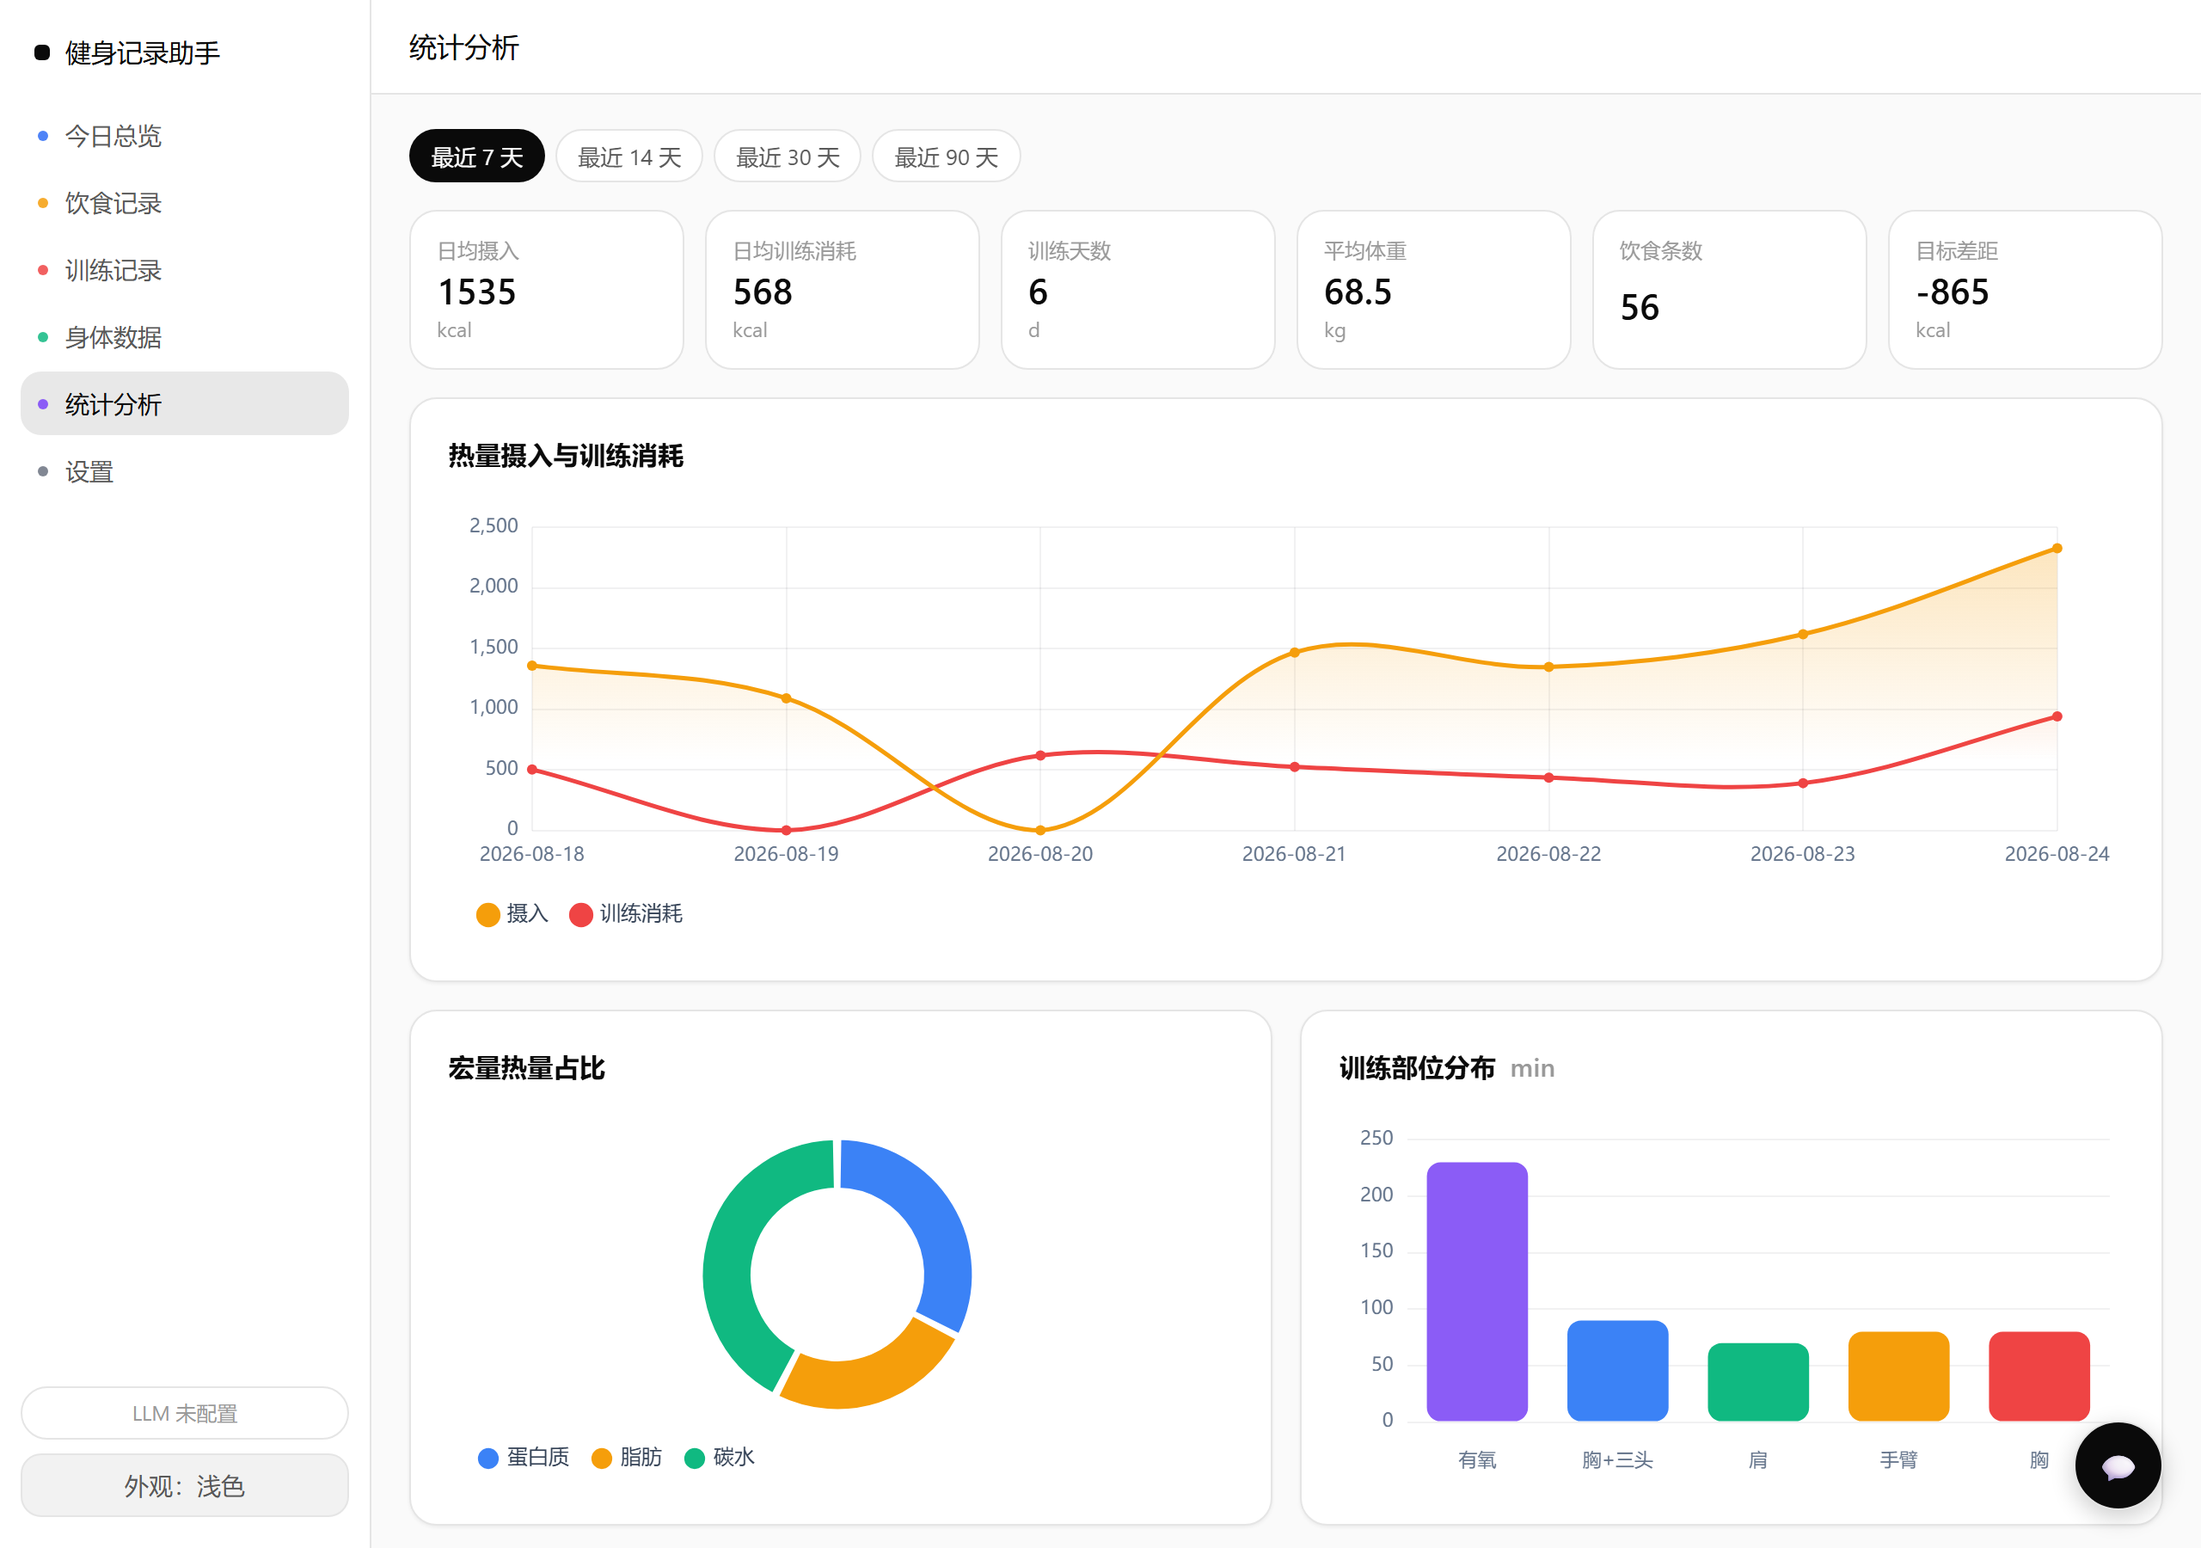
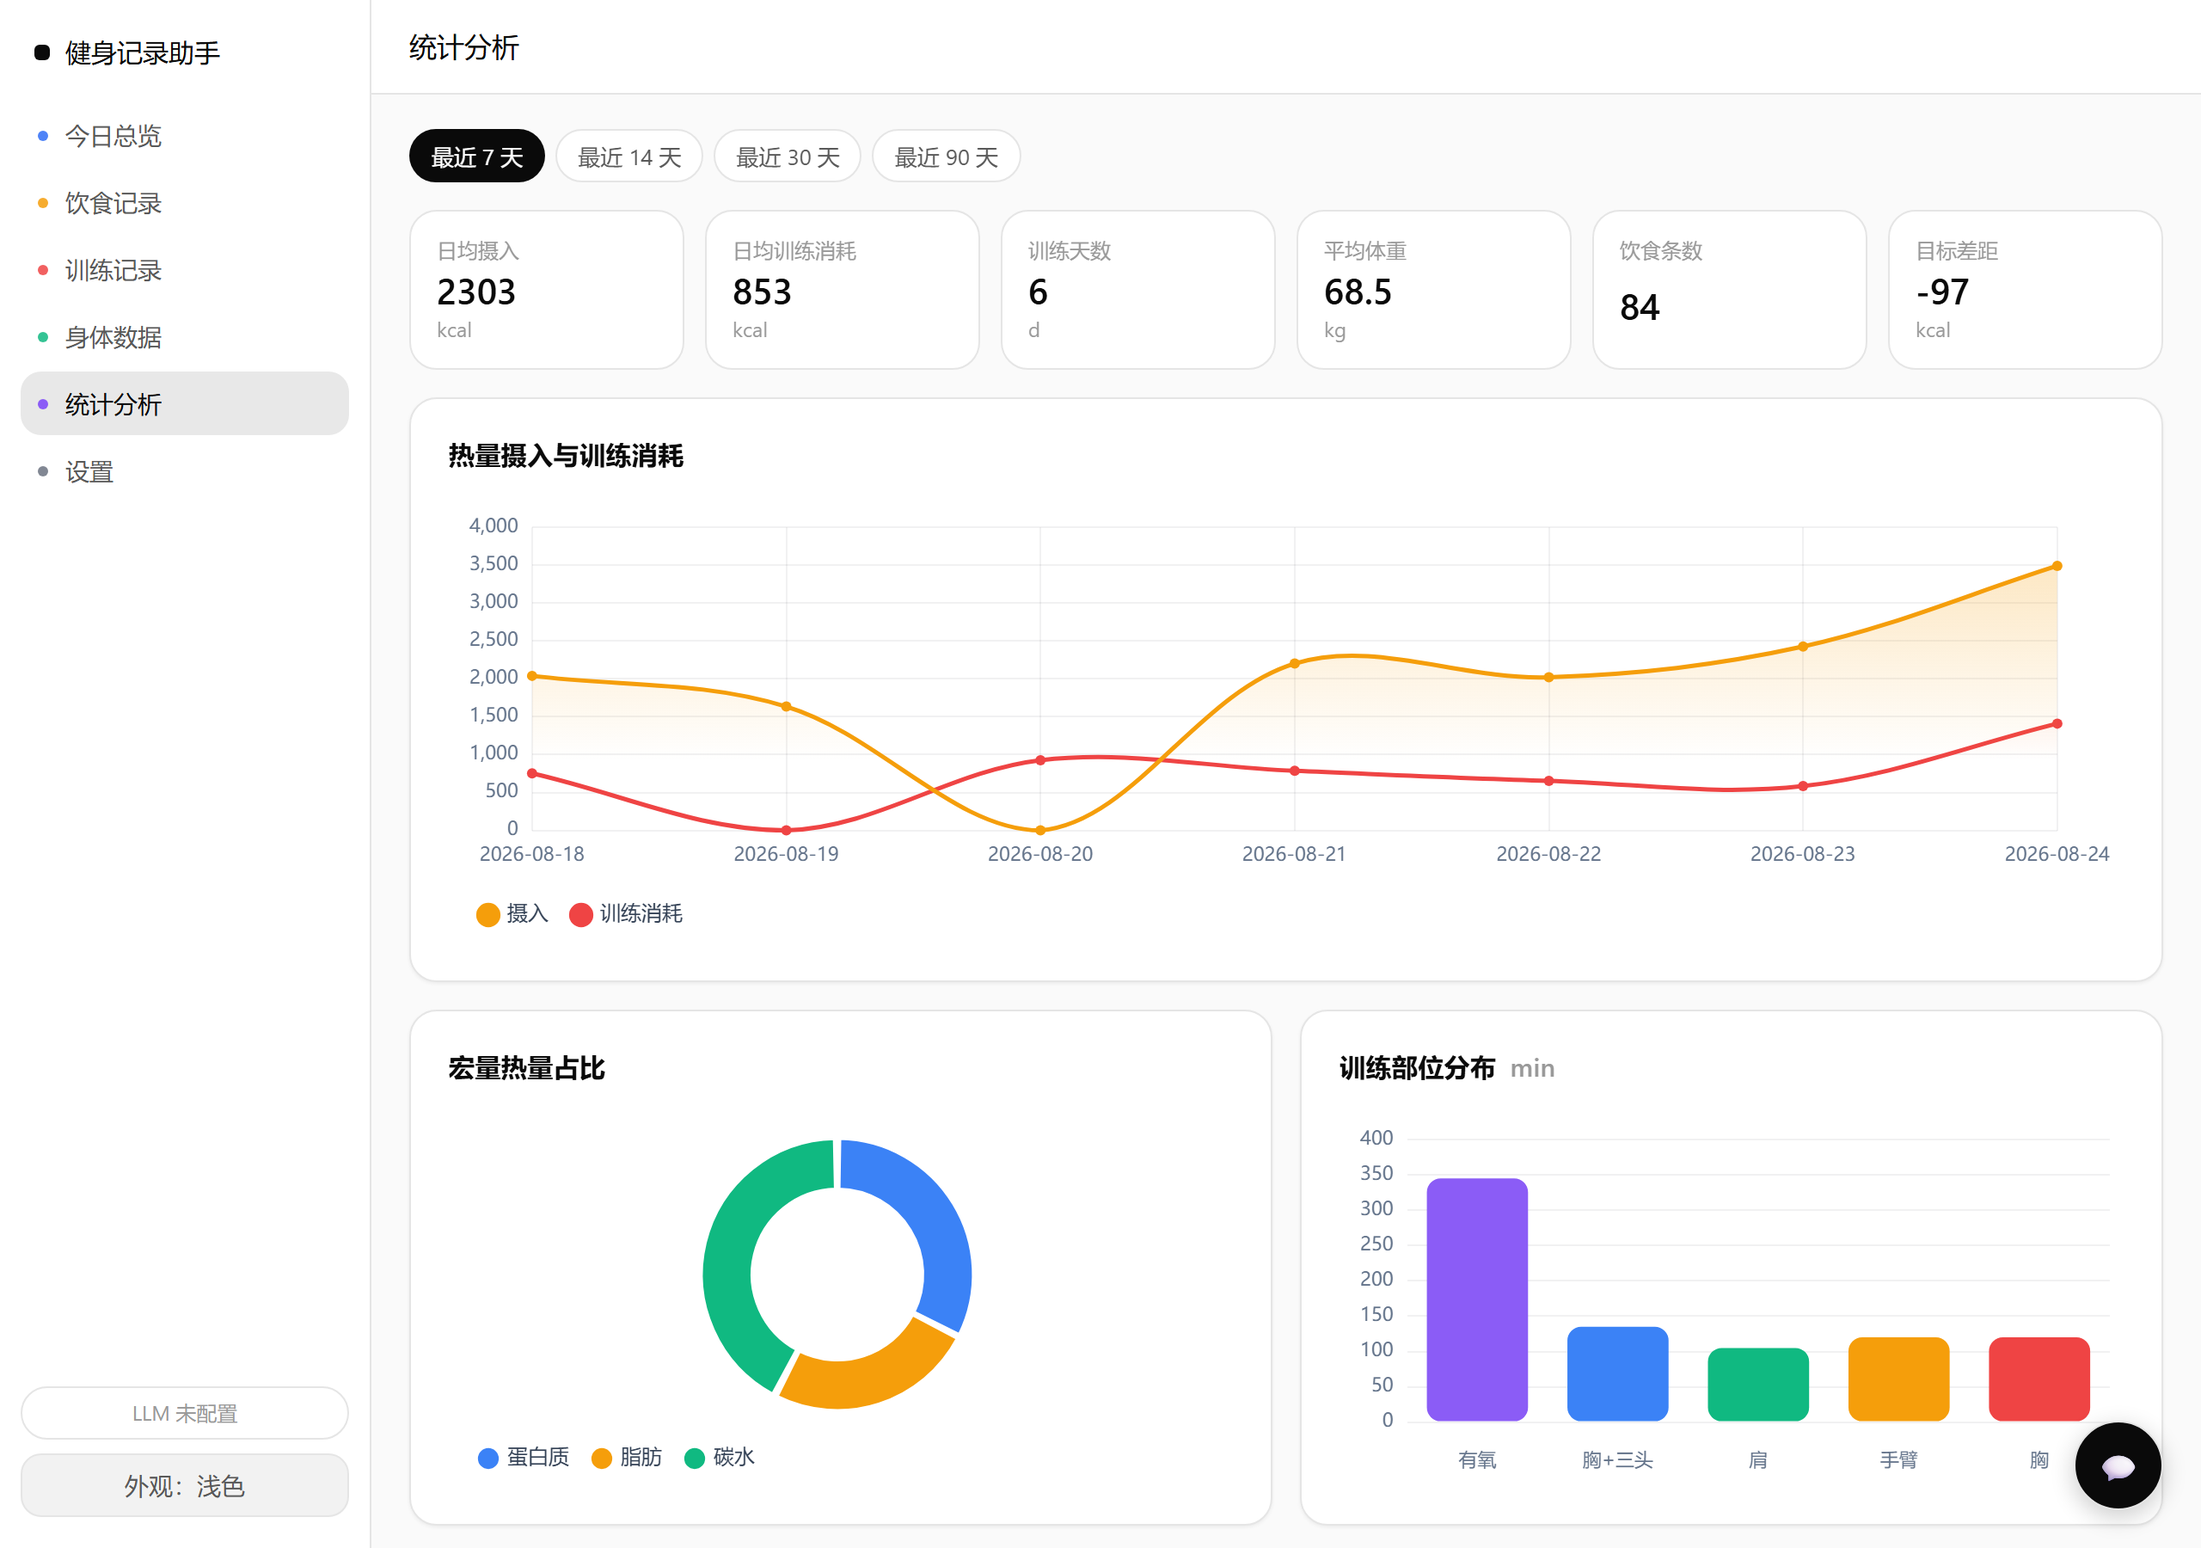
拆分中英文 README；截图改为单独贴图并把 stats 改用视口截图
- 拆成两个 README：README.md（中文）+ README.en.md（英文），顶部互相跳转
- 预览区不再用 2×2 表格合并（之前桌面端被压到看不清）：
  * 桌面截图全宽单独一段
  * 手机截图用 <p align=center><img width=320> 居中显示
- desktop-stats 改成视口截图（去掉 full_page），避免长全页让 README 滚很久
  视觉上 KPIs + 趋势折线 + 宏量环 + 部位柱状都还在，比之前更紧凑

diff --git a/README.md b/README.md
@@ -1,24 +1,30 @@
 # Simple Fitness Recorder · 健身记录助手
 
 > 本地优先的健身记录助手（中文界面）。记录饮食 / 训练 / 身体数据，自动推算每日热量目标与缺口，并提供可视化统计。支持**网页端**与 **Android App** 两种形态，数据全部存在你自己的设备上，不上传任何服务器。
+>
+> [English version →](README.en.md)
 
-[简体中文](#简体中文) · [English](#english)
+## 界面预览
 
----
+桌面端在浏览器里跑 FastAPI + Vue 3，手机端是 Capacitor 打包的 Android App（数据存本机）。下面四张图是真实运行截屏。
 
-## 简体中文
+#### 桌面端 · 今日总览
 
-### 界面预览
+![网页端今日总览](assets/screenshots/desktop-today.png)
 
-| 网页端 · 今日总览 | 手机端 · 今日总览 |
-| --- | --- |
-| ![网页端今日总览](assets/screenshots/desktop-today.png) | ![手机端今日总览](assets/screenshots/mobile-today.png) |
+#### 手机端 · 今日总览
 
-| 网页端 · 统计分析 | 手机端 · 统计分析 |
-| --- | --- |
-| ![网页端统计分析](assets/screenshots/desktop-stats.png) | ![手机端统计分析](assets/screenshots/mobile-stats.png) |
+<p align="center"><img src="assets/screenshots/mobile-today.png" width="320" alt="手机端今日总览"></p>
 
-### 功能特性
+#### 桌面端 · 统计分析
+
+![网页端统计分析](assets/screenshots/desktop-stats.png)
+
+#### 手机端 · 统计分析
+
+<p align="center"><img src="assets/screenshots/mobile-stats.png" width="320" alt="手机端统计分析"></p>
+
+## 功能特性
 
 - **三类记录**：饮食（餐次 / 食物 / 分量 / 热量 / 三大宏量）、训练（部位 / 时长 / 消耗 / 备注）、身体（体重 / 体脂 / 腰围），列表内支持行内编辑与软删除（删错可从回收站恢复）。
 - **目标与缺口联动**：按 BMR（Mifflin-St Jeor）→ TDEE（活动系数）→ 每日目标（目标系数）推算热量目标；当天训练消耗会实时抬高有效目标，热量环与缺口口径自洽。
@@ -28,7 +34,7 @@
 - **黑白极简 UI**：浅 / 深主题切换；网页端为侧栏布局，手机端为底部导航；右下角悬浮助手不遮挡背后交互。
 - **跨端一致**：网页端与手机端共用同一套记录模型，导出 JSON 在两端均可导入，按「记录类型 + 原 id」去重，重复导入不会越导越多。
 
-### 两种使用形态
+## 两种使用形态
 
 | | 网页端（桌面） | 手机端（Android） |
 | --- | --- | --- |
@@ -38,9 +44,9 @@
 | AI 配置 | 服务端 `.env` | App 内「设置」页填写，key 仅存本机 |
 | 关系 | 两者并存、互不替代，靠 JSON 导出 / 导入互相同步 | 同上 |
 
-### 快速开始
+## 快速开始
 
-#### 网页端
+### 网页端
 
 ```bash
 # 1. 建议用虚拟环境，避免污染系统 Python
@@ -65,7 +71,7 @@ python run.py
 
 > 直接双击 `run.py` 常因系统 Python 没装依赖而报错，请在已装依赖的虚拟环境（或已装依赖的 Python）里用终端启动。
 
-#### 手机端（Android）
+### 手机端（Android）
 
 下载仓库 `apk/` 目录下的安装包安装即可：
 
@@ -74,64 +80,28 @@ python run.py
 
 首次安装需允许「安装未知来源应用」。数据全部存手机本地，可离线使用；在「设置」页填写 OpenAI 兼容接口的 API Key 即可启用 AI 助手（key 只存本机）。
 
-### 数据备份与迁移
+## 数据备份与迁移
 
 设置页（网页端 / 手机端）提供「导出全部 JSON」，包含档案、目标与全部记录（含回收站）。把文件发给他人，对方导入后即可用同一套数据；重复导入按 id 自动去重（并集合并），不会重复累加。
 
-### 技术栈
+## 技术栈
 
 - **后端**：FastAPI + SQLite + LangGraph（OpenAI 兼容接口，默认 DeepSeek-V3）
 - **前端**：Vue 3 + Chart.js（本地内置，离线可用，CDN 兜底）
 - **架构**：API-first —— 网页只是客户端之一；手机 App 是纯前端壳（数据存本机），与网页端通过 JSON 导出 / 导入同步
 
-### 从源码构建（可选）
+## 从源码构建（可选）
 
 - 网页端：如上 `pip install -r requirements.txt && python run.py`。
 - 手机端：`pwa/` 为纯前端 web 资源（Vue 3 + IndexedDB，零构建），`mobile/` 为 Capacitor 6 工程，把 `pwa/` 打包成原生 Android WebView 壳。改完 `pwa/` 后，在 `mobile/` 内 `cap sync` 同步资源再打包；release 需自备签名密钥库（不入库）。Windows 上中文路径 / 沙箱环境有已知坑，可参考项目内的 `capacitor-apk-build` 构建说明。
 
-### 路线图
+## 路线图
 
 - [ ] 多档案 / 多用户
 - [ ] 训练动作库与计划模板
 - [ ] 体重 / 体脂趋势预测
 - [ ] 网页端深色主题记忆优化
 
-### 许可证
+## 许可证
 
 本项目当前未指定开源许可证。如需用于商业或分发，请先联系作者。
-
----
-
-## English
-
-**Simple Fitness Recorder** is a local-first fitness tracker (Chinese UI). It logs diet / workout / body measurements, auto-computes your daily calorie target and deficit, and visualizes the trends. It ships in two forms — a **web app** and an **Android app** — and keeps all your data on your own device, with no server upload.
-
-### Highlights
-
-- Three record types: diet (meal / food / portion / calories / macros), workout (muscle group / duration / burn / note), and body (weight / body-fat / waist), with inline edit and soft-delete (recoverable from trash).
-- Goal & deficit chain: BMR (Mifflin-St Jeor) → TDEE (activity factor) → daily target (goal factor); today's workout burn raises the effective target live.
-- Visual stats: calorie ring, macro progress bars, daily summary, plus range trend lines, macro split, and workout distribution charts.
-- Assisted entry: paste vision-model OCR output in a template and parse locally (no LLM cost), or enter manually.
-- Optional AI assistant: connect any OpenAI-compatible endpoint (e.g. SiliconFlow / DeepSeek) for natural-language logging and queries; everything works without it.
-- Cross-platform: web and mobile share the same record model; export JSON and re-import on either side, de-duplicated by record type + id.
-
-### Run the web app
-
-```bash
-python -m venv .venv && source .venv/bin/activate
-pip install -r requirements.txt
-cp .env.example .env        # optional: add an OpenAI-compatible LLM key
-python run.py               # open http://127.0.0.1:8000
-```
-
-### Android
-
-Install the APK from the `apk/` directory (`fitness-recorder-v1.0.3-release.apk`). Data lives in on-device IndexedDB; configure the LLM key in the in-app Settings page if desired.
-
-### Tech stack
-
-FastAPI + SQLite + LangGraph backend; Vue 3 + Chart.js frontend; Capacitor 6 wrapping the PWA for Android. API-first design — the web UI is just one client.
-
-### License
-
-No license specified yet. Contact the author before redistribution.

diff --git a/README.en.md b/README.en.md
@@ -1,0 +1,108 @@
+# Simple Fitness Recorder
+
+> A local-first fitness tracker (Chinese UI). Log diet / workout / body measurements, auto-compute your daily calorie target and deficit, and visualize the trends. Ships in two forms — a **web app** and an **Android app** — and keeps all your data on your own device, with no server upload.
+>
+> [简体中文 →](README.md)
+
+## Screenshots
+
+The desktop version runs a FastAPI + Vue 3 app in your browser; the mobile version is a Capacitor-packaged Android app that stores data on-device. The four images below are real screenshots of the running app.
+
+#### Desktop · Today's overview
+
+![Desktop today's overview](assets/screenshots/desktop-today.png)
+
+#### Mobile · Today's overview
+
+<p align="center"><img src="assets/screenshots/mobile-today.png" width="320" alt="Mobile today's overview"></p>
+
+#### Desktop · Statistics
+
+![Desktop statistics](assets/screenshots/desktop-stats.png)
+
+#### Mobile · Statistics
+
+<p align="center"><img src="assets/screenshots/mobile-stats.png" width="320" alt="Mobile statistics"></p>
+
+## Features
+
+- **Three record types**: diet (meal / food / portion / calories / macros), workout (muscle group / duration / burn / note), and body (weight / body-fat / waist), with inline edit and soft-delete (recoverable from the trash).
+- **Goal & deficit chain**: BMR (Mifflin-St Jeor) → TDEE (activity factor) → daily target (goal factor); today's workout burn raises the effective target live, so the calorie ring and the deficit stay in sync.
+- **Visual stats**: calorie ring, macro progress bars, daily summary, plus range trend lines, macro split, and workout distribution charts.
+- **Assisted entry**: paste vision-model OCR output in a template and parse locally (no LLM cost), or enter manually.
+- **Optional AI assistant**: connect any OpenAI-compatible endpoint (e.g. SiliconFlow / DeepSeek) for natural-language logging and queries; delete actions ask for a second confirmation. Everything works without it.
+- **Clean monochrome UI**: light / dark theme toggle; sidebar layout on the web, bottom navigation on mobile; floating chat button never blocks the underlying interaction.
+- **Cross-platform sync**: web and mobile share the same record model; export JSON and re-import on either side, de-duplicated by record type + id.
+
+## Two forms
+
+| | Web (desktop) | Mobile (Android) |
+| --- | --- | --- |
+| Storage | Local SQLite (`data/`, never uploaded) | Local IndexedDB (works offline) |
+| How it runs | Start FastAPI locally, open in a browser | Install the APK, runs as a standalone app |
+| Best for | Logging and reviewing on a computer | Logging on the go |
+| AI configuration | Server-side `.env` | In-app Settings page, key stays on the device |
+| Relationship | They coexist and complement each other; sync via JSON export / import | Same |
+
+## Quick start
+
+### Web
+
+```bash
+# 1. Recommended: use a virtual environment to avoid polluting system Python
+python -m venv .venv
+source .venv/bin/activate            # Windows: .venv\Scripts\activate
+
+# 2. Install dependencies
+pip install -r requirements.txt
+
+# 3. (Optional) Configure the AI assistant. If you skip this, the chat is disabled
+#    but every other feature still works.
+cp .env.example .env
+# Edit .env and set the OpenAI-compatible endpoint:
+#   LLM_API_KEY=sk-xxx
+#   LLM_BASE_URL=https://api.siliconflow.cn/v1   # any OpenAI-compatible service works
+#   LLM_MODEL=deepseek-ai/DeepSeek-V3
+
+# 4. Start the server
+python run.py
+```
+
+Then open `http://127.0.0.1:8000`. If the server is bound to `0.0.0.0`, a phone on the same Wi-Fi can reach it at the LAN address — handy for the photo → OCR → paste workflow.
+
+> Double-clicking `run.py` usually fails because the system Python doesn't have the dependencies. Always run it from a terminal inside a virtualenv (or any Python where you've installed the requirements).
+
+### Mobile (Android)
+
+Install one of the APKs from the `apk/` directory in this repo:
+
+- `fitness-recorder-v1.0.3-release.apk` — production-signed, supports in-place upgrade (recommended)
+- `fitness-recorder-v1.0.3-debug.apk` — debug-signed, ~3.9MB, good for a quick trial
+
+You'll need to allow "install from unknown sources" on first install. All data is stored on-device and works fully offline. To enable the AI assistant, fill in the OpenAI-compatible API key on the in-app Settings page (the key stays on the device).
+
+## Data backup and migration
+
+Both the web and mobile Settings pages offer **Export all JSON**, which includes your profile, goals, and every record (including the trash). Share the file with someone else; once they import it, they have the same data. Re-importing the same file is a no-op — duplicates are dropped by record type + id (set union, not accumulation).
+
+## Tech stack
+
+- **Backend**: FastAPI + SQLite + LangGraph (OpenAI-compatible, defaults to DeepSeek-V3)
+- **Frontend**: Vue 3 + Chart.js (vendored locally for offline use, CDN fallback)
+- **Architecture**: API-first — the web UI is just one client. The mobile app is a pure-frontend shell that stores data locally and syncs with the web app via JSON export / import.
+
+## Build from source (optional)
+
+- **Web**: `pip install -r requirements.txt && python run.py`, as above.
+- **Mobile**: `pwa/` holds the pure-frontend web assets (Vue 3 + IndexedDB, zero build step); `mobile/` is a Capacitor 6 project that wraps `pwa/` into a native Android WebView shell. After editing `pwa/`, run `cap sync` inside `mobile/` to copy assets, then build the APK. Release builds need your own signing keystore (not committed to this repo). Windows + Chinese paths + sandboxed environments have known pitfalls — see the project's `capacitor-apk-build` notes.
+
+## Roadmap
+
+- [ ] Multiple profiles / users
+- [ ] Exercise library and plan templates
+- [ ] Weight / body-fat trend forecasting
+- [ ] Better dark-theme persistence on the web
+
+## License
+
+This project does not currently declare an open-source license. Please contact the author before redistributing or using it commercially.
